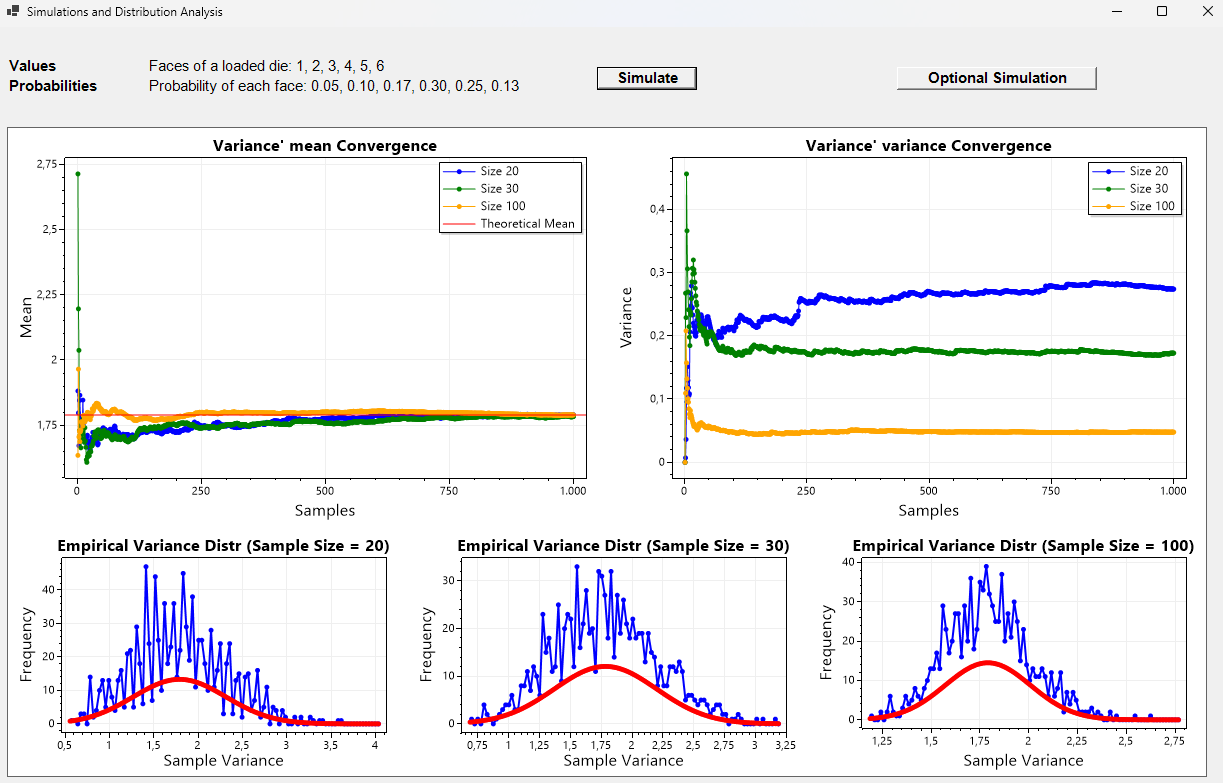
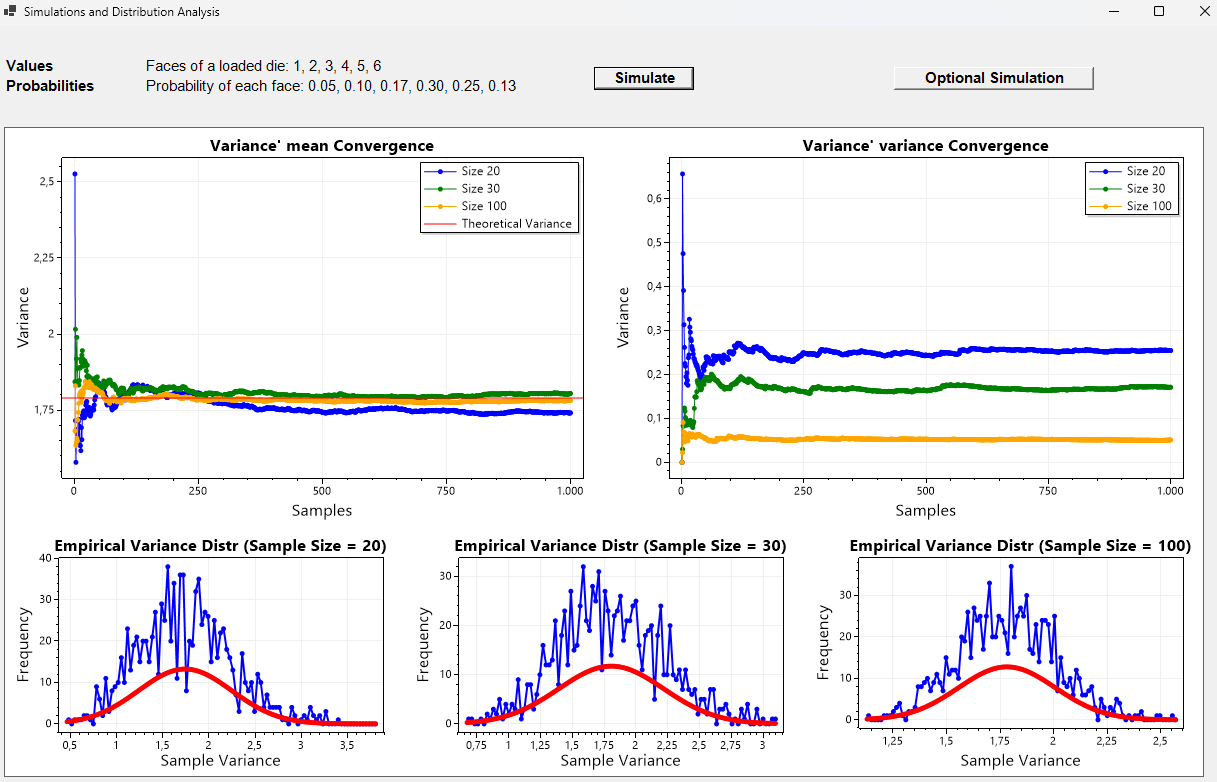
mod

diff --git a/homework9.html b/homework9.html
@@ -305,7 +305,7 @@
         <p>Let's see the code and the generated plots:
             <img src="images/HW9/SimulateEmpiricalDistribution.png" alt="Empirical Distribution" />
             <br>
-            The ‘Simulate’ button triggers the same function of Hmw7, where what has changed is shown in the code: we
+            The ‘Simulate’ button triggers the same function of Hwk7, where what has changed is shown in the code: we
             generate 1000 samples of sizes 20, 30 and 100 and for each of these we computed the empirical corrected
             variance and we add it to the <code>empiricalVariances</code> list. Then we compute the means and variances
             of the increasing list of empirical variances and we plot in the two convergence graphs shown below.
@@ -317,23 +317,24 @@
         <h4>How the variance distribution changes with size</h4>
         <p>
             <strong>Mean of the empirical variances:</strong> as the sample size increases, the mean of the empirical
-            variance moves closer to the theoretical variance (red line in the variance' mean convergence graph).
+            variance moves closer to the theoretical variance (red line in the variance' mean convergence graph). Indeed,
+            the yellow line shown for the 100 size samples is almost overlapping the theoretical variance red line.
             <br>
             <strong>Variance of the empirical variances:</strong> For a rigged die, the variance of the empirical
-            variance will depend on the sample size. The larger the sample, the smaller the variance of the empirical
+            variance will depend on the sample size. The bigger the sample, the smaller the variance of the empirical
             variances will be.
             <br>
             With small samples, the variance of samples can be very spread out, so it may vary a lot from one sample to
             another.
             <br>
-            With large samples (eg 100 wrt 20 or 30), the distribution of variances will stabilise, and the distribution of the samples will be
-            more concentrated around the theoretical value of the variance, as we can see in the three frequencies distribution plots.
+            With large samples (eg 100 wrt 20 or 30), the distribution of variances will stabilise, and the distribution
+            of the samples will be more concentrated around the theoretical value of the variance.
         </p>
         <p>
             In summary, as the sample size increases, the distribution of sample variances becomes more concentrated
             around the theoretical variance.
             This can be observed in the three graphs below, where the third graph, for \( n = 100 \), shows a narrower
-            and taller bell shape.
+            and taller bell shape, in correspondence with the theoretical value of the variance.
         </p>
 
         <h3>Part 2</h3>
